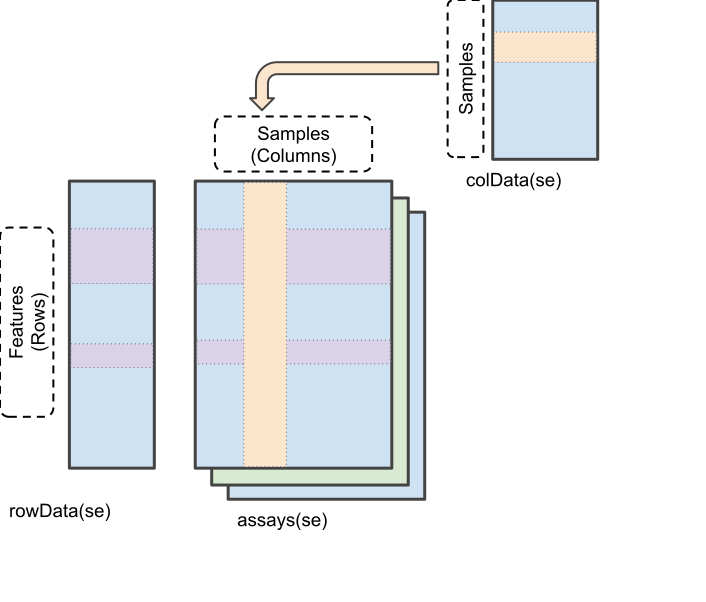
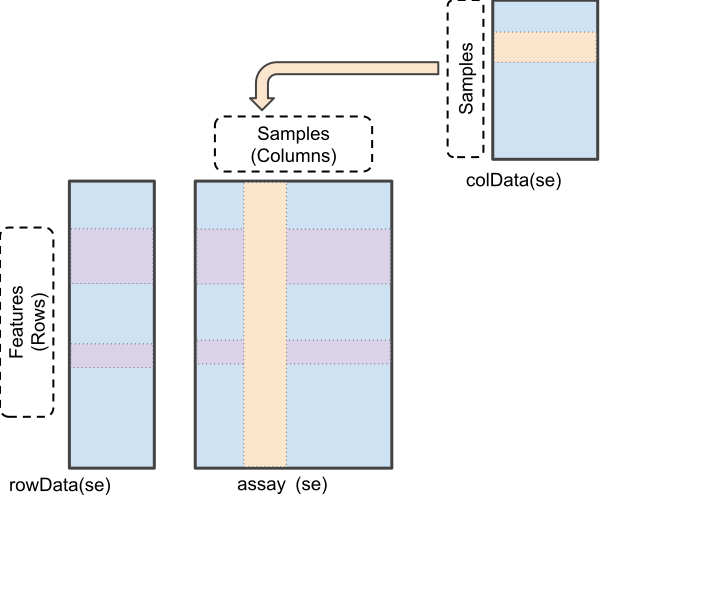
change figure summarizedExperiment

Changed region(s): [[0.2805, 0.3289, 0.6232, 0.897], [0.0, 0.7774, 0.1558, 0.8671]]

diff --git a/presentation.html b/presentation.html
@@ -206,7 +206,7 @@ Léopold Guyot, Loïc Guille
 </div>
 </div>
 
-  <p class="date">20 mai 2026</p>
+  <p class="date">21 mai 2026</p>
 </section>
 <section id="pourquoi-étudier-la-single-cell-proteomics" class="slide level2">
 <h2>Pourquoi étudier la single-cell proteomics ?</h2>
